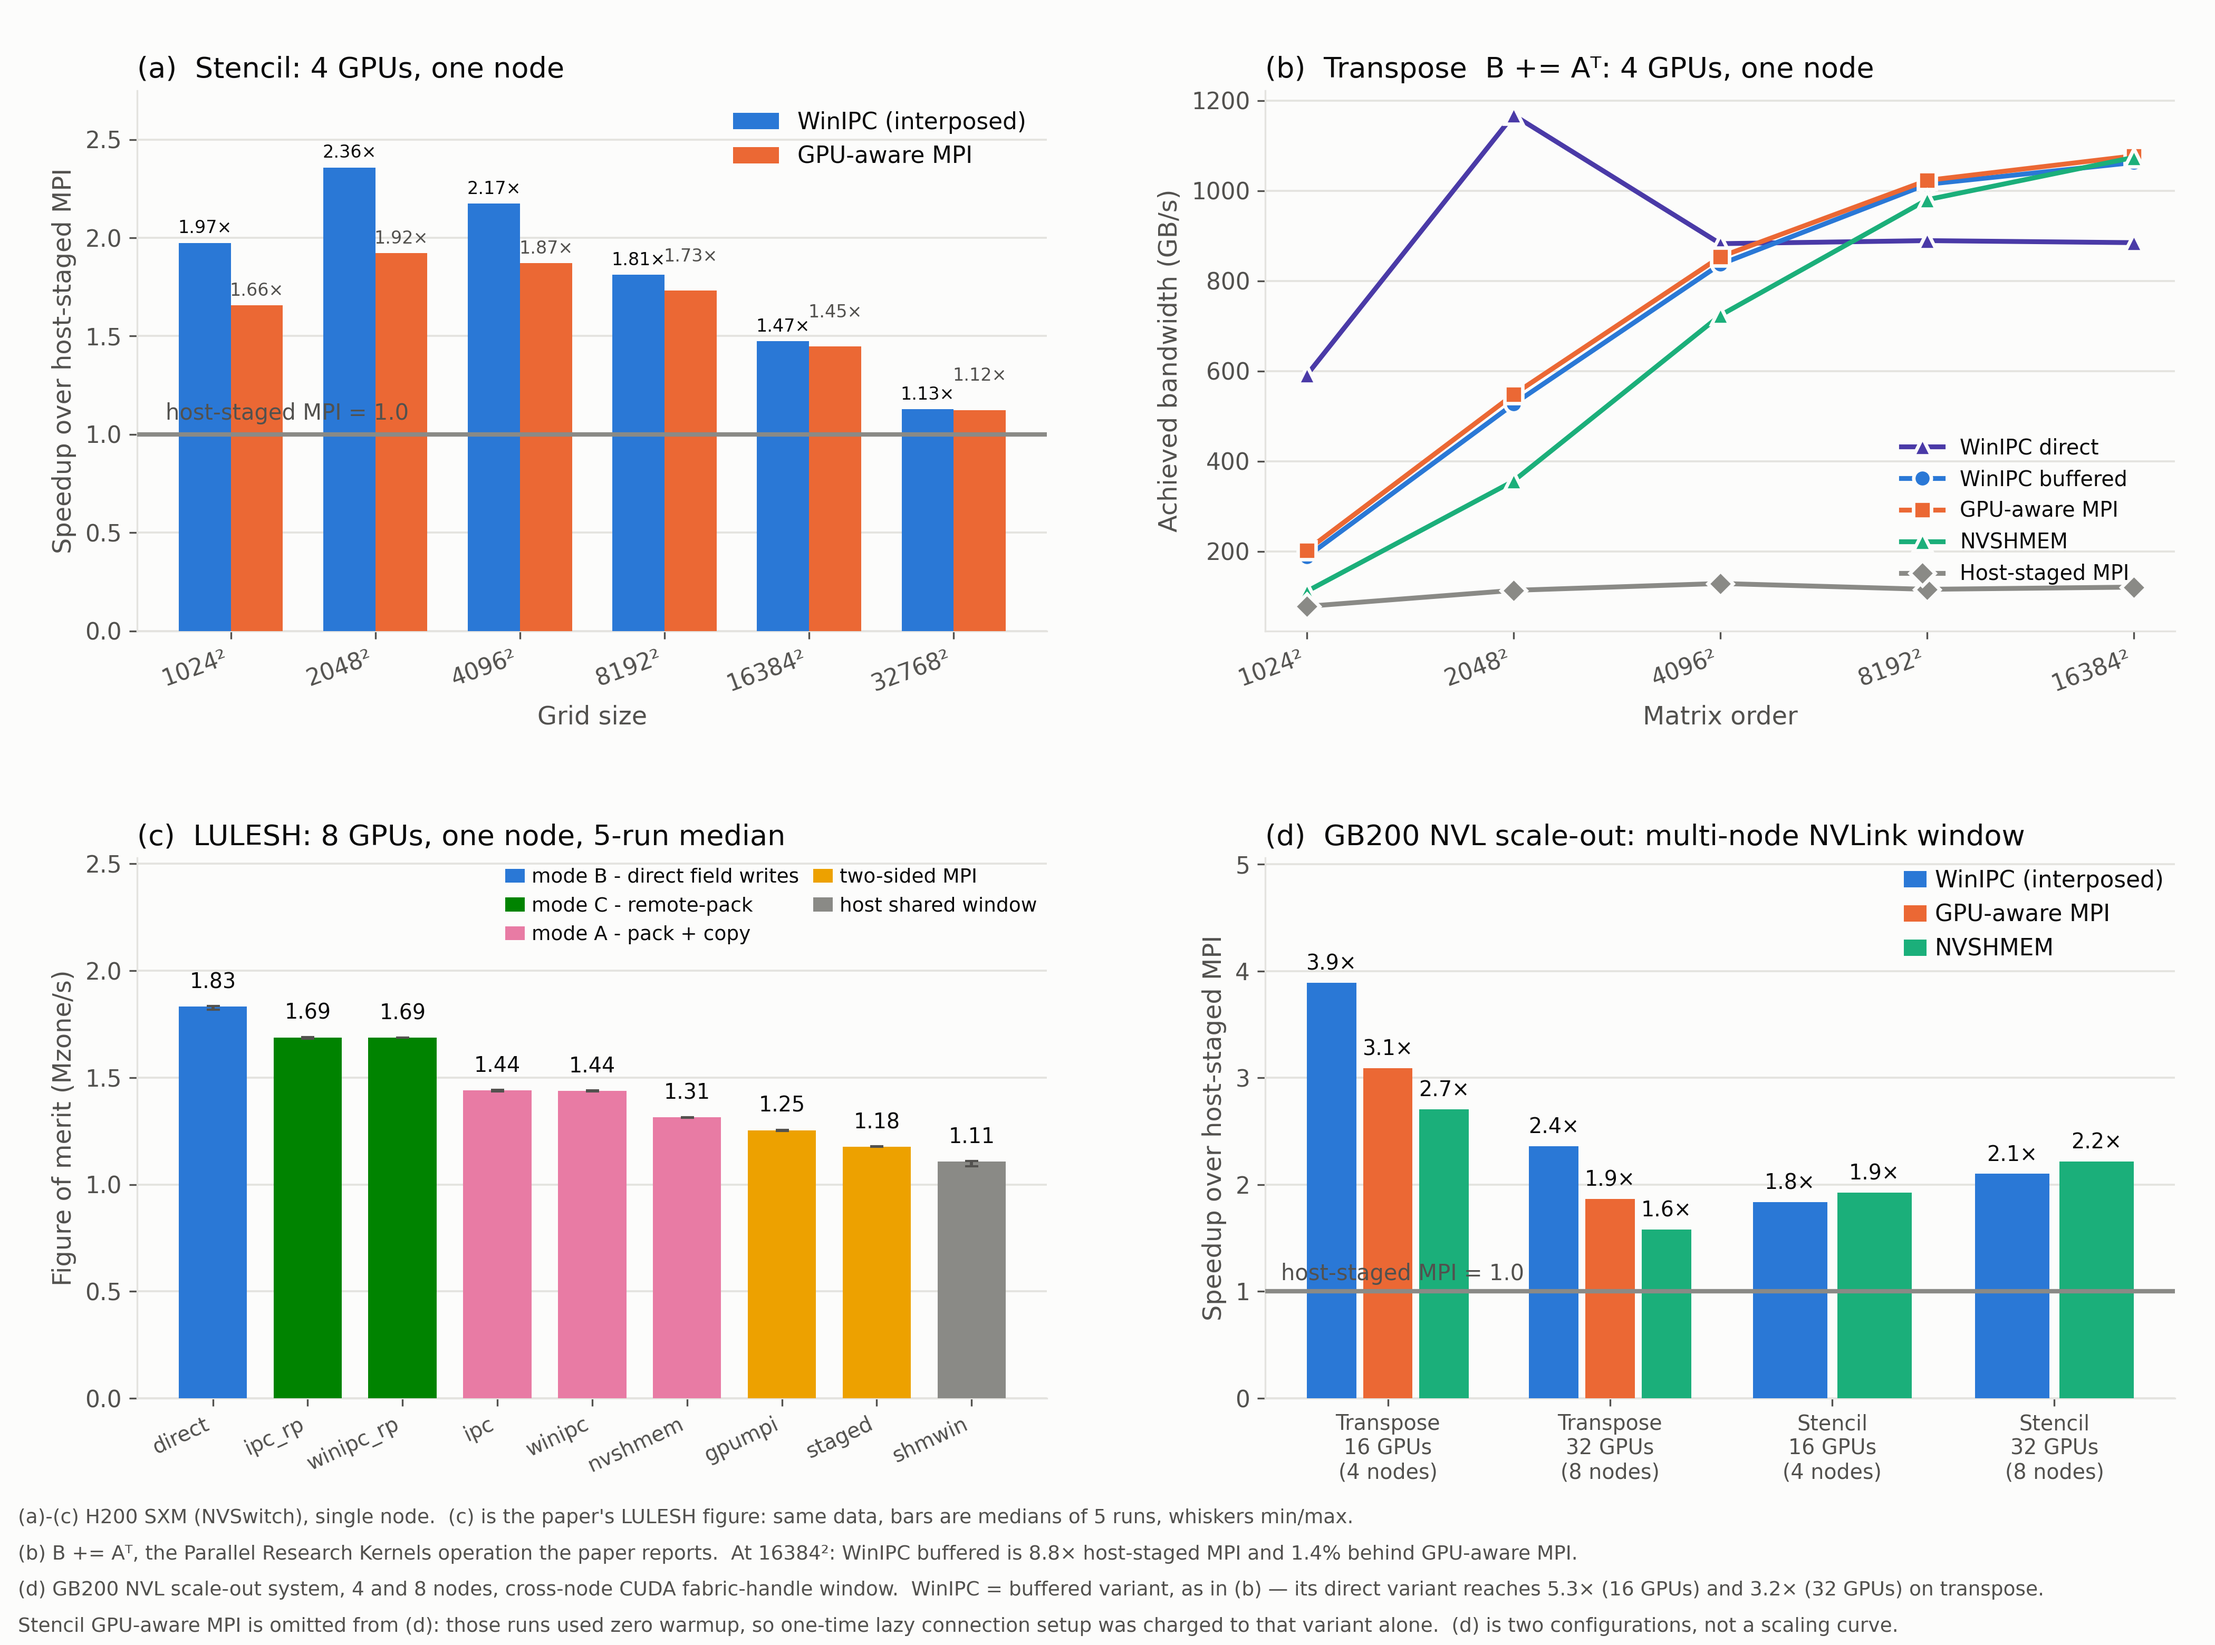
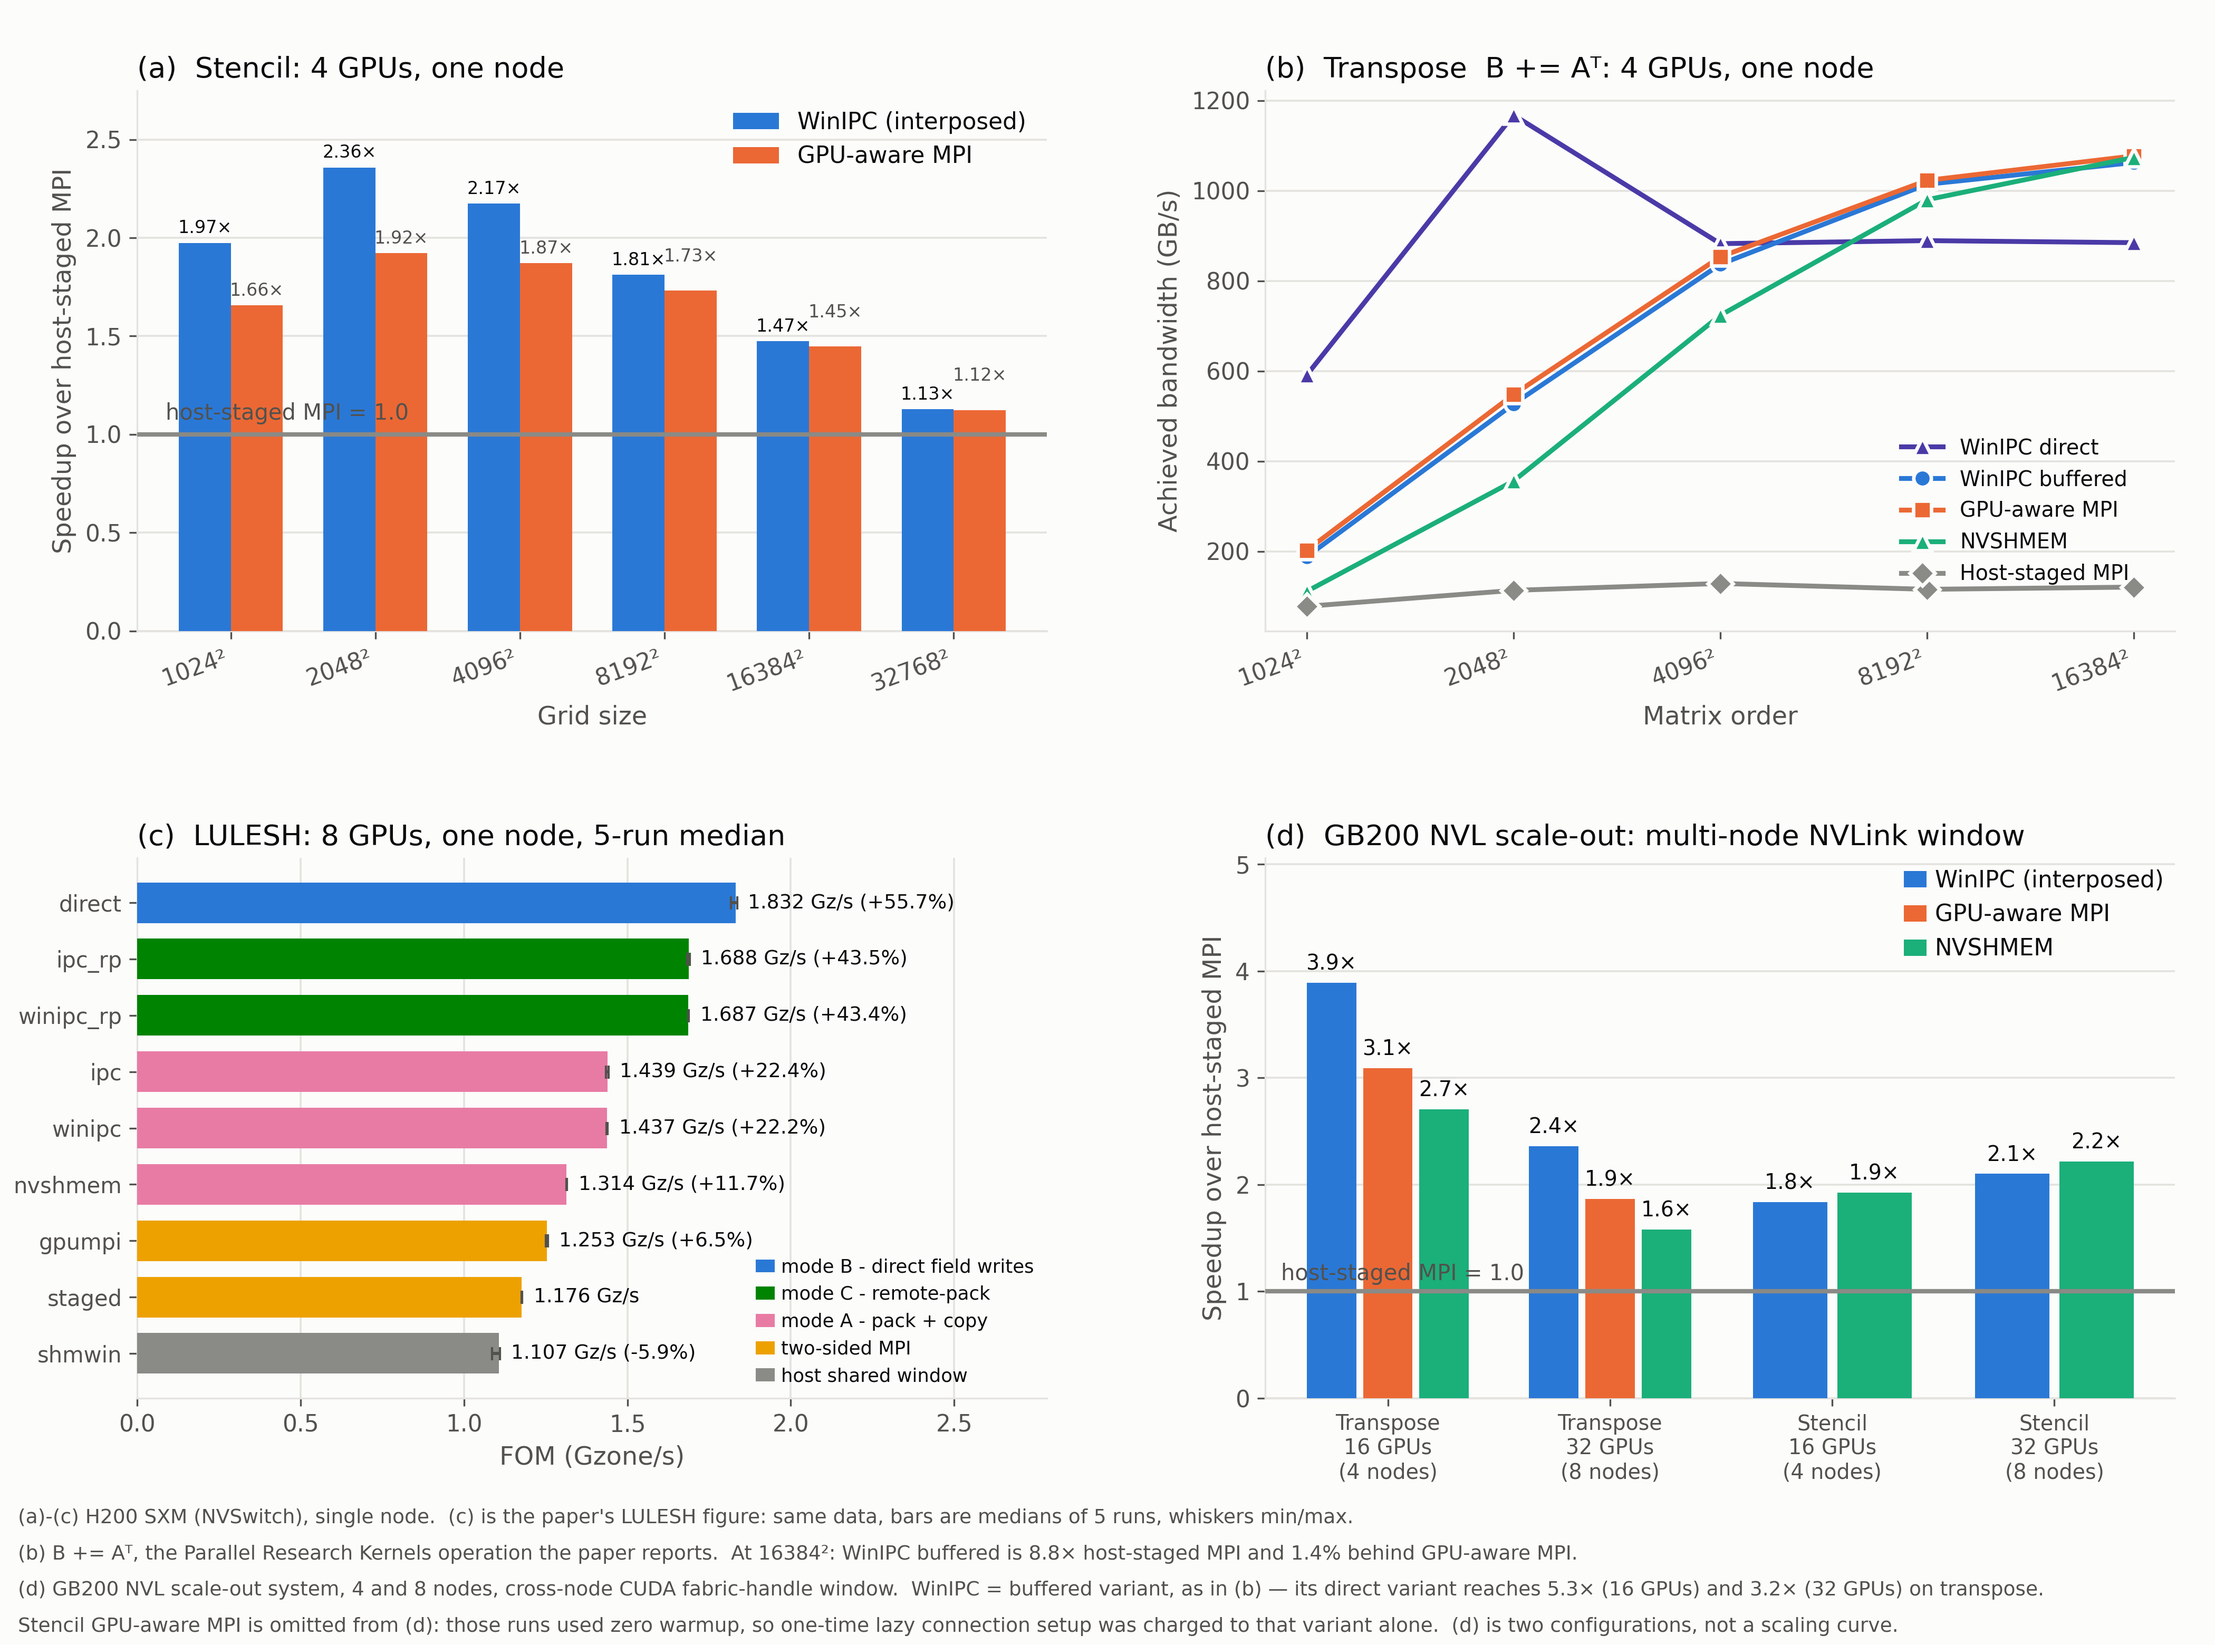
Poster: panel (c) drawn the way the paper draws it, not just from the same data
Switching to the paper's CSV made the numbers match but the figure still did
not: the paper's Figure 5 is horizontal bars in Gzone/s labelled with the gain
over host-staged MPI, and this was vertical bars in Mzone/s with bare values
and no percentages. Same data, different figure, which is what a viewer
actually notices.

Now horizontal, ascending upward, labelled "1.832 Gz/s (+55.7%)" as the paper
labels them, staged carrying no percentage because it is the baseline.

One trap on the way: load_lulesh already divides the CSV column by 1e6 and
that IS Gzone/s -- the column is named fom_z_per_s but is off by a factor of
1000, cross-checked against zone_cycles in make_lulesh_plots.py. Dividing
again printed 0.002 Gz/s, exactly the unit error the comment there warns
about. The conversion is now stated at the point of use.

Changed region(s): [[0.0, 0.5285, 0.4679, 0.9016]]

diff --git a/plots/make_poster_figure.py b/plots/make_poster_figure.py
@@ -401,37 +401,49 @@ axb.legend(frameon=False, loc="lower right", ncol=1, fontsize=9.5,
 
 # ---- panel (c): LULESH figure of merit --------------------------------------
 lulesh = load_lulesh()
-# Descending by FOM, exactly as the paper figure orders it.
-order = sorted(lulesh, key=lambda v: -lulesh[v][0])
+# Horizontal bars in Gzone/s with percentage gains against host-staged MPI,
+# ascending upward -- the paper's Figure 5 exactly. It was a vertical chart in
+# Mzone/s without the percentages, which is the same data drawn as a different
+# figure. A poster viewer who has seen the paper should recognise this one.
+order = sorted(lulesh, key=lambda v: lulesh[v][0])          # ascending upward
 labels = [LULESH_DISPLAY.get(v, v) for v in order]
 colours = [LULESH_MODE_COLOR[LULESH_CATEGORY[v]] for v in order]
+# load_lulesh already divides the CSV column by 1e6, and that IS Gzone/s: the
+# column is named fom_z_per_s but is off by a factor of 1000, cross-checked in
+# make_lulesh_plots.py against the header's own zone_cycles. Dividing again
+# prints 0.0018 Gzone/s, which is a unit error, not a value.
 med = np.array([lulesh[v][0] for v in order])
 lo = np.array([lulesh[v][1] for v in order])
 hi = np.array([lulesh[v][2] for v in order])
+staged_fom = lulesh["staged"][0]
 
-xc = np.arange(len(order))
-recede(axc)
-axc.bar(xc, med, 0.72, color=colours, zorder=3,
-        yerr=[med - lo, hi - med],
-        error_kw=dict(ecolor=INK2, elinewidth=1.4, capsize=3, zorder=4))
-axc.set_xticks(xc)
-axc.set_xticklabels(labels, rotation=25, ha="right")
-axc.tick_params(axis="x", labelsize=9.5)
-axc.set_ylabel("Figure of merit (Mzone/s)")
-axc.set_title("(c)  LULESH: 8 GPUs, one node, 5-run median", loc="left", color=INK)
-axc.set_ylim(0, max(med) * 1.38)
+yc = np.arange(len(order))
+recede(axc, axis="x")
+axc.barh(yc, med, 0.72, color=colours, zorder=3,
+         xerr=[med - lo, hi - med],
+         error_kw=dict(ecolor=INK2, elinewidth=1.4, capsize=3, zorder=4))
+axc.set_yticks(yc)
+axc.set_yticklabels(labels, fontsize=10)
+axc.set_xlim(0, max(med) * 1.52)
+axc.set_xlabel("FOM (Gzone/s)")
+axc.set_title("(c)  LULESH: 8 GPUs, one node, 5-run median",
+              loc="left", color=INK)
 
-for xi, m in zip(xc, med):
-    axc.text(xi, m + max(med) * 0.035, f"{m:.2f}",
-             va="bottom", ha="center", fontsize=9.5, color=INK)
+# Value plus gain over host-staged MPI, as the paper labels them. staged is the
+# baseline and carries no percentage.
+for yi, (v, m) in enumerate(zip(order, med)):
+    gain = m / staged_fom - 1.0
+    txt = f"{m:.3f} Gz/s" if v == "staged" else f"{m:.3f} Gz/s ({gain:+.1%})"
+    axc.text(m + max(med) * 0.02, yi, txt, va="center", ha="left",
+             fontsize=9, color=INK)
 
 from matplotlib.patches import Patch  # noqa: E402
 axc.legend(handles=[Patch(facecolor=LULESH_MODE_COLOR[c],
                           label=LULESH_MODE_LABEL[c])
                     for c in LULESH_MODE_ORDER],
-           frameon=False, loc="upper right", ncol=2, columnspacing=0.7,
-           handlelength=1.0, handletextpad=0.35, borderaxespad=0.1,
-           fontsize=9)
+           frameon=False, loc="lower right", ncol=1, columnspacing=0.7,
+           handlelength=1.0, handletextpad=0.35, borderaxespad=0.3,
+           fontsize=8.5)
 
 # ---- panel (d): GB200 NVL scale-out, normalised ------------------------------
 gb = load_gb200()
